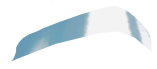
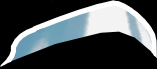
Marmaduke

diff --git a/custom.css b/custom.css
@@ -72,9 +72,9 @@
 
 .custom .bumpers {
     position: absolute;
-    width: 545px;
-    height: 69px;
-    left: 103px;
+    width: 543px;
+    height: 70px;
+    left: 104px;
     top: 123px;
 }
 
